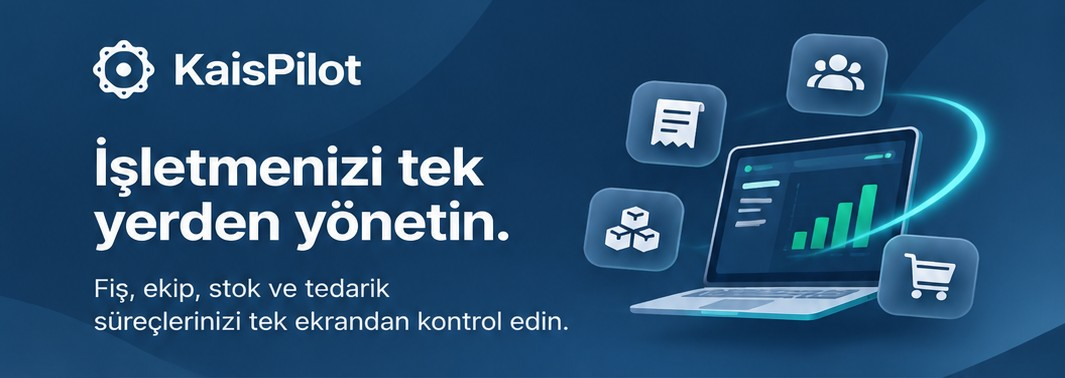
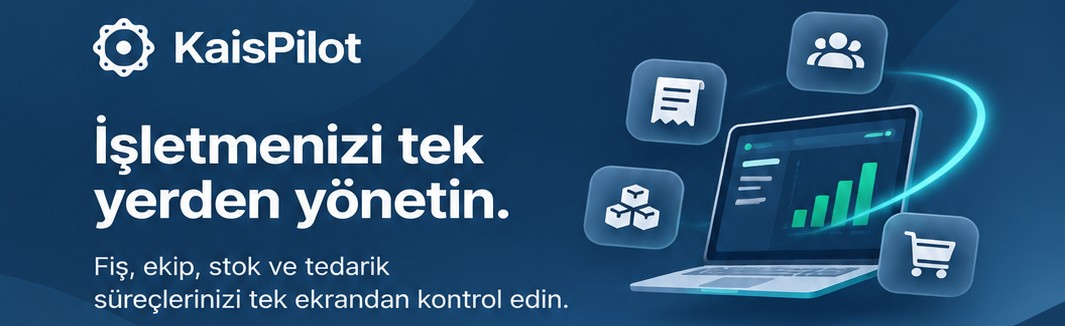
x
Claude-Session: https://claude.ai/code/session_01S2v5aFm4T8146doB4G1DD5

diff --git a/index.html b/index.html
@@ -388,8 +388,8 @@ input:not([type=checkbox]):not([type=radio]):not([type=range]):not([type=file]),
 }
 
 /* v36: giriş üstü birebir görsel */
-.login.lx{background:linear-gradient(180deg,#1D4A73 0,#1D4A73 calc(35.5vw),#9DB5CF calc(35.5vw + 180px),#E6EDF5 calc(35.5vw + 360px),#F2F6FB 100%)}
-.lx-hero{padding:0!important;min-height:0!important;aspect-ratio:1065/378;background:url(/login-hero.jpg) top center/100% auto no-repeat}
+.login.lx{background:linear-gradient(180deg,#1D4A73 0,#1D4A73 calc(30.6vw),#9DB5CF calc(30.6vw + 160px),#E6EDF5 calc(30.6vw + 320px),#F2F6FB 100%)}
+.lx-hero{padding:0!important;min-height:0!important;aspect-ratio:1065/326;background:url(/login-hero.jpg) top center/100% auto no-repeat}
 .lx-hero::before{display:none}
 .lx-hero>*{position:absolute!important;width:1px!important;height:1px!important;overflow:hidden!important;clip:rect(0 0 0 0);white-space:nowrap}
 .lx-card{margin:0 7.4%!important;border-radius:24px}
@@ -399,8 +399,37 @@ input:not([type=checkbox]):not([type=radio]):not([type=range]):not([type=file]),
 .lx-alt,.lx-demo{display:flex!important;flex-wrap:wrap;justify-content:center;align-items:center;gap:2px 10px}
 .lx-alt span,.lx-demo span{flex-basis:100%}
 @media(min-width:900px){.login.lx{background:#1A456F}.lx-hero{position:relative;aspect-ratio:auto;min-height:100vh!important;background:#1A456F}
- .lx-hero::after{content:"";position:absolute;left:0;right:0;top:50%;transform:translateY(-50%);aspect-ratio:1065/378;background:url(/login-hero.jpg) center/100% auto no-repeat;-webkit-mask-image:linear-gradient(180deg,transparent,#000 22%,#000 78%,transparent);mask-image:linear-gradient(180deg,transparent,#000 22%,#000 78%,transparent)}
+ .lx-hero::after{content:"";position:absolute;left:0;right:0;top:50%;transform:translateY(-50%);aspect-ratio:1065/326;background:url(/login-hero.jpg) center/100% auto no-repeat;-webkit-mask-image:linear-gradient(180deg,transparent,#000 22%,#000 78%,transparent);mask-image:linear-gradient(180deg,transparent,#000 22%,#000 78%,transparent)}
  .lx-card{margin:0!important;border-radius:0}}
+
+/* v37: kompakt giriş kartı */
+.lx-card{margin-top:-12px!important;padding:22px 22px 20px!important;border-radius:22px!important;box-shadow:0 10px 30px rgba(9,40,80,.16)!important}
+.lx-card h1{font-size:28px;letter-spacing:-.4px}
+.lx-sub{margin-top:4px;font-size:15px}
+.lx-tabs{margin:16px 0 14px!important;gap:8px!important}
+.lx-tabs button{min-height:0!important;padding:10px 2px 9px!important;gap:1px!important;border-radius:14px;box-shadow:none}
+.lx-tabs button svg{width:22px;height:22px;margin-bottom:3px}
+.lx-tabs button b{font-size:14px}
+.lx-tabs button span{font-size:10.5px!important;white-space:nowrap}
+.lx-form{gap:12px}
+.lx-f{gap:6px}
+.lx-f>label,.lx-lr>label{font-size:14px;font-weight:600;color:var(--ink)}
+.lx-lr{display:flex;align-items:center;justify-content:space-between;gap:8px}
+.lx-lr .lx-link{font-size:13.5px;padding:4px 0;min-height:32px}
+.lx-in{min-height:54px;border-radius:14px;border-width:1px;border-color:#D3DCE8}
+.lx-in>svg{width:20px;height:20px}
+.lx-go{min-height:54px;border-radius:14px;font-size:17px;margin-top:4px;box-shadow:0 4px 10px rgba(9,63,122,.2)}
+.lx-or{margin:0 10px;font-size:13.5px}
+.lx-alt,.lx-demo{min-height:0!important;padding:9px 12px!important;border-radius:14px;gap:0 8px!important}
+.lx-alt{border-width:1px}
+.lx-alt svg,.lx-demo svg{width:18px;height:18px}
+.lx-alt b,.lx-demo b{font-size:15px}
+.lx-alt span,.lx-demo span{font-size:12px;color:var(--muted)}
+.lx-demo{background:transparent;border:1px solid #D3DCE8!important}
+.lx-roles{margin-top:-4px;font-size:12px}.lx-roles button{font-size:12.5px;min-height:30px;padding:4px 5px}
+.lx-box{padding:14px;gap:10px}
+@media(max-width:360px){.lx-card{padding:18px 14px 16px!important}.lx-tabs button span{font-size:9.5px!important}}
+@media(min-width:900px){.lx-card{margin:0!important;border-radius:0!important;box-shadow:none!important;padding:48px!important}.lx-hero::after{aspect-ratio:1065/326}}
 .tab{position:relative}
 .tab>.pill{position:absolute;top:2px;left:calc(50% + 6px);padding:0 5px!important;font-size:10.5px;line-height:16px;min-width:16px;text-align:center}
 @media(max-width:480px){#ps-chip{font-size:0!important;width:10px;height:10px;padding:0!important;border-radius:50%;min-width:0;overflow:hidden;flex:none}}
@@ -5409,9 +5438,9 @@ function lxLogin() {
   const tabs = cloud ? `<div class="lx-tabs" role="group" aria-label="Giriş türü">${[['own', 'İşveren', 'İşletmeni yönet', LXI.store], ['emp', 'Çalışan', 'Görevlerine eriş', LXI.users], ['sup', 'Tedarikçi', 'Siparişlerini yönet', LXI.truck]].map((x) => `<button type="button" data-a="lgtab" data-v="${x[0]}" aria-pressed="${tab === x[0]}">${x[3]}<b>${x[1]}</b><span>${x[2]}</span></button>`).join('')}</div>` : '';
   const eid = cloud ? 'id-em' : 'em', pid = cloud ? 'id-pw' : 'pw', errId = cloud ? 'id-err' : 'lerr';
   const fields = `<div class="lx-f"><label for="${eid}">E-posta</label><div class="lx-in">${LXI.mail}<input id="${eid}" type="email" autocomplete="username" inputmode="email" autocapitalize="none" placeholder="e-posta@firma.com" value="${em}"></div></div>
-   <div class="lx-f"><label for="${pid}">Şifre</label><div class="lx-in">${LXI.lock}<input id="${pid}" type="password" autocomplete="${create ? 'new-password' : 'current-password'}" placeholder="Şifre"><button type="button" class="lx-eye" data-a="pwtog" aria-label="Şifreyi göster veya gizle">${LXI.eye}</button></div></div>`;
+   <div class="lx-f"><div class="lx-lr"><label for="${pid}">Şifre</label>${cloud ? '<button type="button" class="lx-link" data-a="idforgot">Şifremi unuttum?</button>' : ''}</div><div class="lx-in">${LXI.lock}<input id="${pid}" type="password" autocomplete="${create ? 'new-password' : 'current-password'}" placeholder="Şifre"><button type="button" class="lx-eye" data-a="pwtog" aria-label="Şifreyi göster veya gizle">${LXI.eye}</button></div></div>`;
   const err = `<div class="err" id="${errId}" role="alert">${esc(S.loginErr)}</div>`;
-  const forgot = cloud ? `<div class="lx-r"><button type="button" class="lx-link" data-a="idforgot">Şifremi unuttum?</button></div>` : '';
+  const forgot = '';
   const go = `<button class="lx-go" type="${cloud ? 'button' : 'submit'}" ${cloud ? 'data-a="idin"' : ''}><span>Giriş yap</span>${LXI.arrow}</button>`;
   let body;
   if (cloud && SBS.user && ID.mems.length > 1 && !ID.active) body = `<div class="stack"><p class="lbl">Hangi işletmeye girmek istiyorsun?</p>${ID.mems.map((m) => `<button type="button" class="btn sec block" data-a="idpick" data-id="${m.business_id}">${esc(m.businesses.name)} · ${esc(ROLE_LABEL[m.role])}</button>`).join('')}<button type="button" class="btn sm sec" data-a="idout">Çıkış yap</button></div>`;
